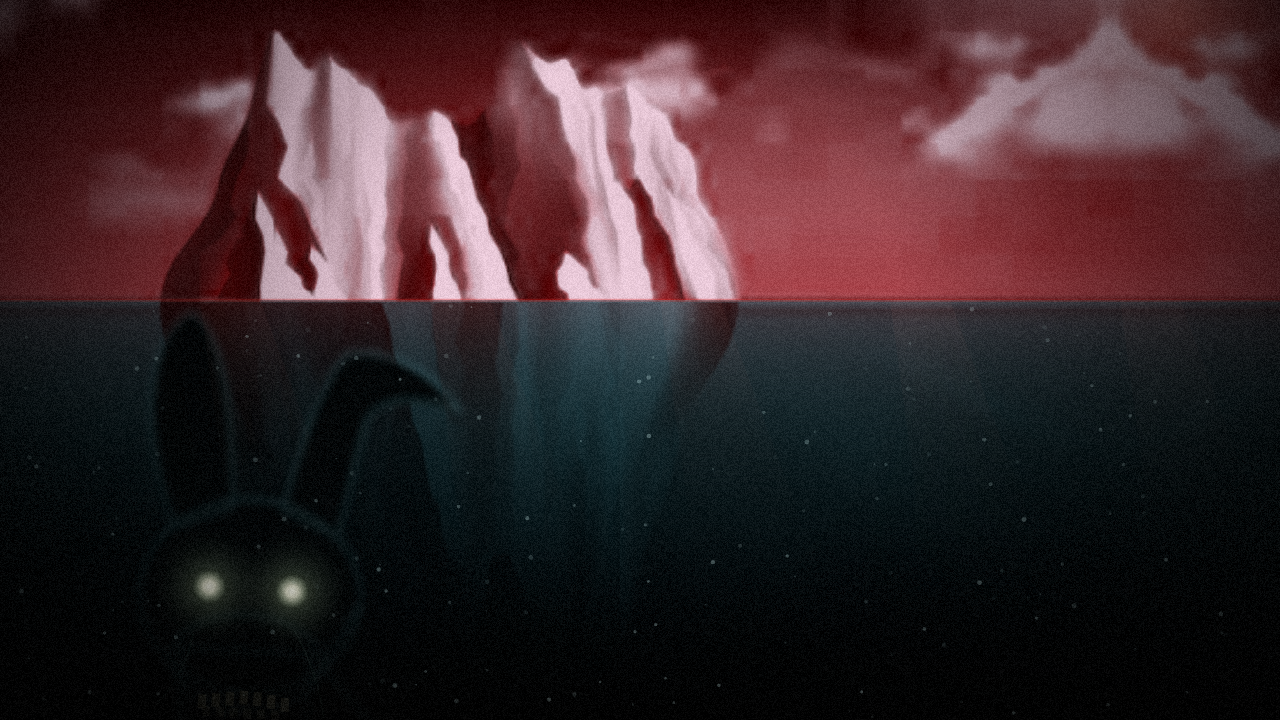
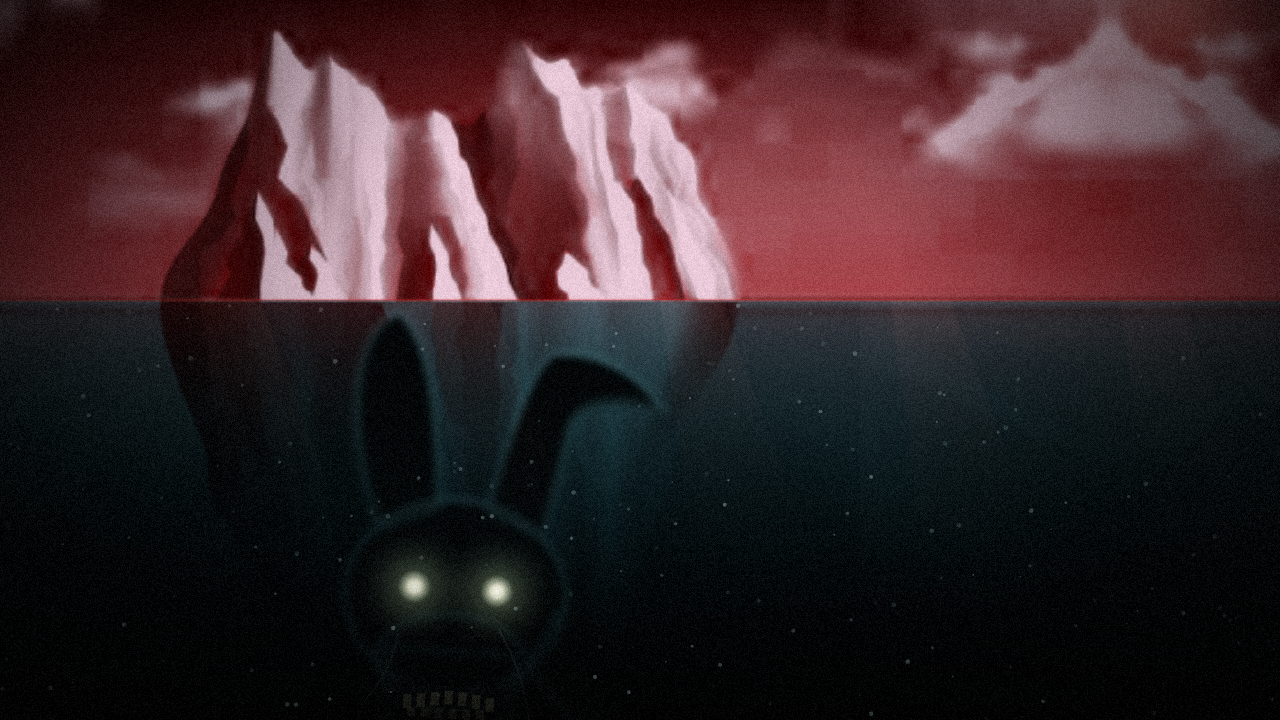
Center Spring Bonnie under the iceberg in v4 thumbnail
Claude-Session: https://claude.ai/code/session_017ETuxcXCJzo7MFG6v2mfNw

diff --git a/thumbs/iceberg-fnaf-v2.html b/thumbs/iceberg-fnaf-v2.html
@@ -32,7 +32,7 @@ img.onload=()=>{
  x.fillStyle=hz;x.fillRect(0,WL,W,H-WL);
 
  // ===== creature in the abyss (Springtrap-like silhouette) =====
- x.save();x.translate(250,600);x.scale(.92,.92);x.rotate(.06);
+ x.save();x.translate(455,600);x.scale(.92,.92);x.rotate(.06);
  const body=new Path2D();
  body.ellipse(0,0,120,105,0,0,Math.PI*2);          // head
  body.ellipse(0,72,82,52,0,0,Math.PI*2);           // muzzle
@@ -57,9 +57,9 @@ img.onload=()=>{
  x.fillStyle='#000';x.beginPath();x.ellipse(-45,-12,26,20,0,0,Math.PI*2);x.ellipse(45,-12,26,20,0,0,Math.PI*2);x.fill();
  x.restore();
  // fog over creature so it sinks into the dark
- let fg=x.createLinearGradient(0,420,0,720);fg.addColorStop(0,'rgba(2,14,18,.10)');fg.addColorStop(1,'rgba(0,0,0,.75)');x.fillStyle=fg;x.fillRect(0,302,620,420);
+ let fg=x.createLinearGradient(0,420,0,720);fg.addColorStop(0,'rgba(2,14,18,.10)');fg.addColorStop(1,'rgba(0,0,0,.75)');x.fillStyle=fg;x.fillRect(0,302,860,420);
  // glowing pupils (drawn above fog)
- x.save();x.translate(250,600);x.scale(.92,.92);x.rotate(.06);
+ x.save();x.translate(455,600);x.scale(.92,.92);x.rotate(.06);
  x.globalCompositeOperation='screen';
  [[-45,-12],[45,-12]].forEach(([ex,ey])=>{let eg=x.createRadialGradient(ex,ey,1,ex,ey,70);eg.addColorStop(0,'rgba(255,255,240,1)');eg.addColorStop(.08,'rgba(255,255,230,.9)');eg.addColorStop(.25,'rgba(200,230,180,.25)');eg.addColorStop(1,'rgba(0,0,0,0)');x.fillStyle=eg;x.fillRect(ex-70,ey-70,140,140);});
  x.restore();
